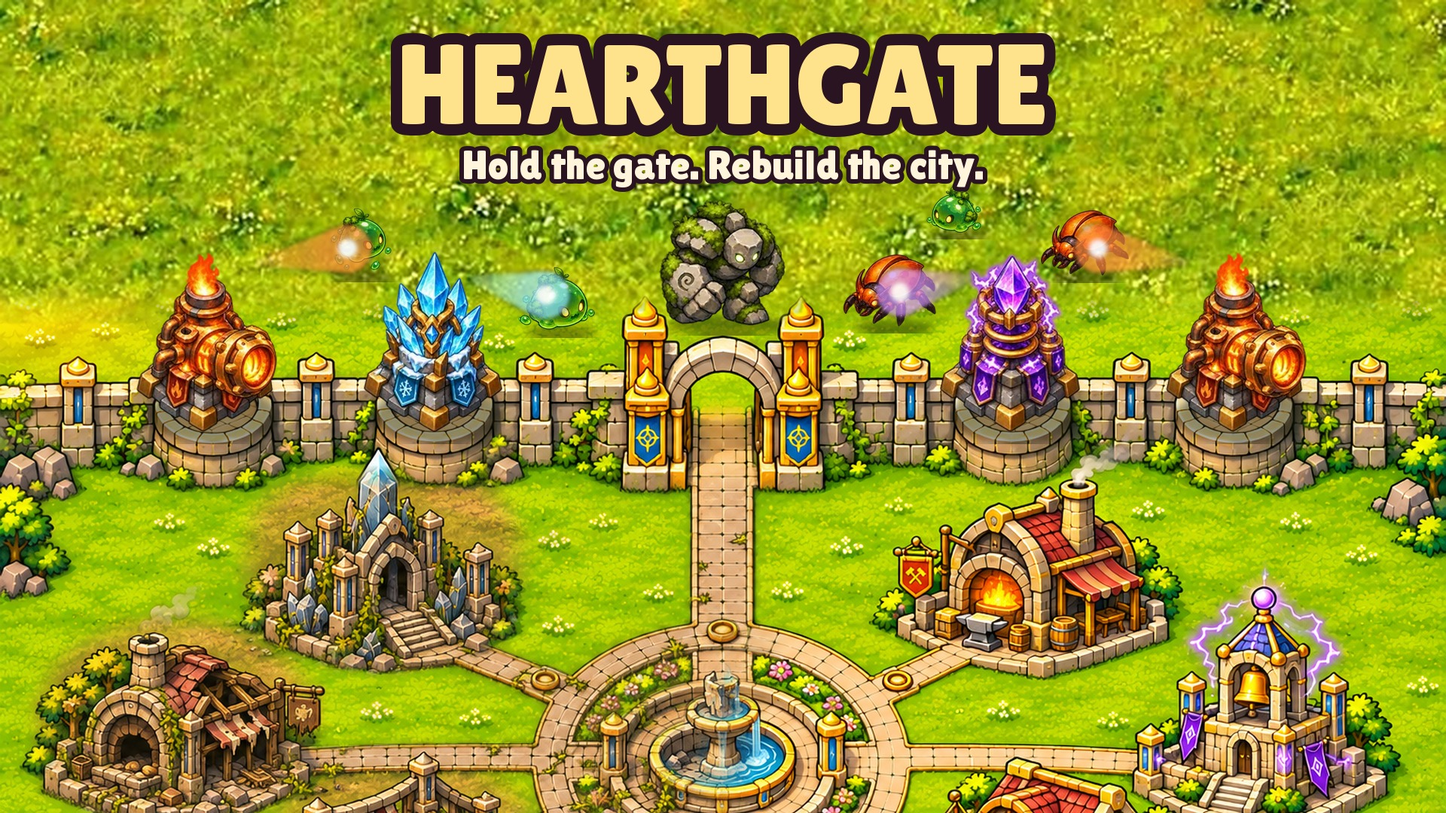
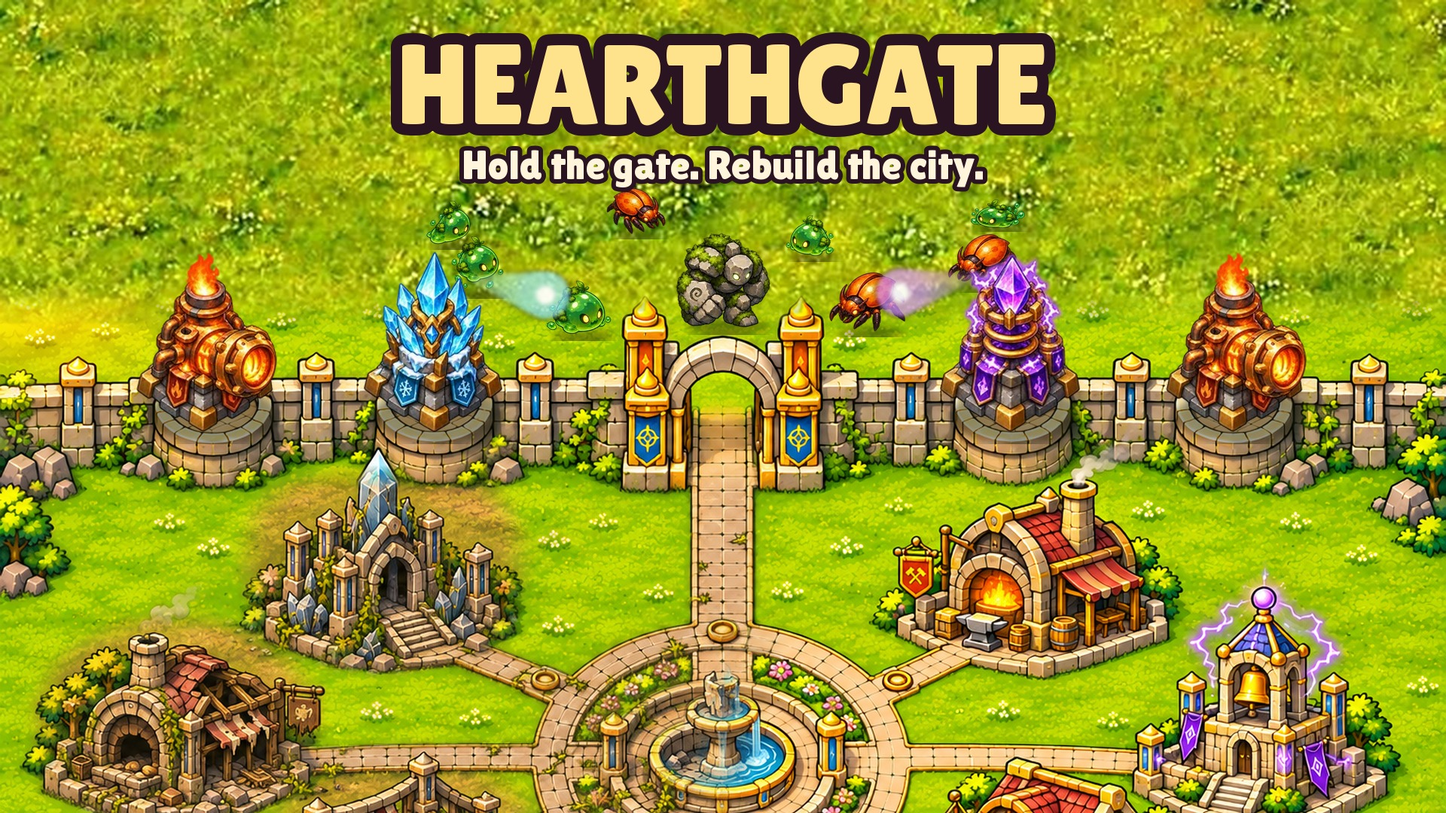
Review fixes: thick enemy outlines that survive the downscale, coloured bolts with normal blending, enemies arrive in packs, SHATTER flash, combo words clear of numbers, offline card shows fight and city, grow tip times out, cover A at true scale
Claude-Session: https://claude.ai/code/session_01Cxj9v4aohDoaRKkso7KUri

Changed region(s): [[0.1875, 0.2139, 0.8125, 0.4278]]

diff --git a/js/game.js b/js/game.js
@@ -61,7 +61,8 @@
   function spawn(role) {
     const R = C.ROLES[role], hp = C.enemyHp(P.wave, role);
     // enemies step out of the long grass below the HUD with a puff of dust, never from under the top panel
-    const x0 = 80 + Math.random() * 560, y0 = FIELD_TOP + (R.size > 150 ? 70 : 0) + Math.random() * 40;
+    const lead = (S.packN || 0) % 3 === 0 || role === 'boss' || role === 'swarm';
+    const x0 = lead ? (S.packX = 80 + Math.random() * 560) : Math.max(70, Math.min(650, S.packX + (Math.random() - 0.5) * 140)), y0 = FIELD_TOP + (R.size > 150 ? 70 : 0) + Math.random() * 40;
     for (let i = 0; i < (reduced() ? 3 : 9); i++) { const a = Math.random() * Math.PI * 2; S.fx.push({ x: x0 + Math.cos(a) * 20, y: y0 - 6, vx: Math.cos(a) * 50, vy: -20 - Math.random() * 30, t: 0, life: 0.5, col: 'rgba(220,200,150,.9)', r: 4 + Math.random() * 4, dust: true }); }
     S.enemies.push({ role, sheet: R.sheet, x: x0, y: y0, off: (Math.random() - 0.5) * 330, hp, max: hp,
       sp: R.speed * (WALL_FRONT - FIELD_TOP) / 414, size: R.size, armour: R.armour || 0, weak: R.weak, boss: role === 'boss', frame: Math.random() * 6,
@@ -71,10 +72,11 @@
   // ---------- simulation ----------
   const TOWERS = PLATFORMS.map((p, i) => ({ x: p.x, y: p.y, cd: 0.2 + i * 0.13, recoil: 0, flash: 0, n: i }));
   function step() {
-    S.t += DT; S.sessionT += DT; if (S.wavePop) S.wavePop.t += DT;
+    S.t += DT; S.sessionT += DT; if (S.growTip) S.growTipT += DT; if (S.flash && (S.flash.t += DT) > 0.18) S.flash = null; if (S.wavePop) S.wavePop.t += DT;
     S.gateHit = Math.max(0, S.gateHit - DT * 4); S.shake = Math.max(0, S.shake - DT);
     for (const r of S.rings) r.t += DT; S.rings = S.rings.filter(r => r.t < 0.5);
-    if (S.spawnQ.length && (S.spawnT -= DT) <= 0) { const r = S.spawnQ.shift(); spawn(r); S.spawnT = r === 'swarm' ? 0.28 : Math.max(0.45, 1.35 - P.wave * 0.02); }
+    if (S.spawnQ.length && (S.spawnT -= DT) <= 0) { const r = S.spawnQ.shift(); spawn(r); S.packN = (S.packN || 0) + 1; const gap = Math.max(0.45, 1.35 - P.wave * 0.02);
+      S.spawnT = r === 'swarm' ? 0.28 : S.packN % 3 ? 0.3 : gap * 3 - 0.6; }   // packs of three, same total pace
     if (B.regen) S.gateHp = Math.min(gateMax(), S.gateHp + gateMax() * B.regen * DT);
     const els = elements(), interval = C.fireInterval(B);
     for (const t of TOWERS) {
@@ -156,14 +158,16 @@
   }
   function combo(id, e, word, col) {
     // one combo word on screen at a time, so words never pile into each other
+    // above the enemy, or below it near the treeline, so it never sits on the +N
     S.pops = S.pops.filter(p => !p.combo);
-    S.pops.push({ x: Math.max(150, Math.min(570, e.x)), y: Math.max(S.wavePop ? 500 : FIELD_TOP + 50, e.y - e.size - 40), text: word, col, t: 0, life: 1.4, size: 58, combo: true, hold: 0.75 });
+    S.pops.push({ x: Math.max(150, Math.min(570, e.x)), y: (e.y - e.size - 80 < (S.wavePop ? 500 : FIELD_TOP + 50)) ? Math.max(e.y + 70, S.wavePop ? 500 : 0) : e.y - e.size - 80, text: word, col, t: 0, life: 1.4, size: 58, combo: true, hold: 0.75 });
     S.rings.push({ x: e.x, y: e.y - e.size * 0.45, t: 0, col }); S.shake = 0.14;
+    if (id === 'shatter' && S.t - (S.lastFlash || -9) > 1.2) { S.flash = { col, t: 0 }; S.lastFlash = S.t; }   // the signature combo lights the screen
     if (!P.combos.includes(id)) { P.combos.push(id); toast(`New combo: ${word.replace('!', '')}  ·  ${P.combos.length}/3`); save(); }
   }
   function kill(e) {
     e.dying = DT; const gain = C.killRes(P.wave, e.boss, B);
-    wisp(e, gain); pop(e.x, e.y - e.size * 0.6, '+' + C.fmt(gain), '#ffb8f0', 0.9, 32);
+    wisp(e, gain); pop(e.x, e.y - e.size * 0.6, '+' + C.fmt(gain), '#ff9ce8', 0.9, 34);
     burst(e, e.sheet === 'golem' ? '#b9b2a2' : e.sheet === 'beetle' ? '#ff9a4a' : '#8fe05a', e.boss ? 30 : 12, e.boss ? 260 : 160);
     if (e.boss || e.role === 'armoured') A.play('golem_death', 0.5);
   }
@@ -208,7 +212,7 @@
     const before = C.towerDamage(P, B), stage = C.stageOf(P.gateLevel);
     P.res -= c; P.gateLevel++; refresh(); S.gateHp = gateMax(); S.upsSinceRestore = (S.upsSinceRestore || 0) + 1;
     if (C.stageOf(P.gateLevel) > stage) { toast(`Gate stage ${C.stageOf(P.gateLevel)}! The towers grow.`); A.play('tier_up', 0.6); TOWERS.forEach(t => (t.flash = 1.5)); }
-    else { pop(GATE_X, WALL_FRONT - 150, `Damage ${C.fmt(before)} -> ${C.fmt(C.towerDamage(P, B))}`, '#ffd56b', 1.2, 38); TOWERS.forEach(t => (t.flash = 1.2)); A.play('tier_up', 0.25); }
+    else { pop(GATE_X, WALL_FRONT - 240, `Damage ${C.fmt(before)} -> ${C.fmt(C.towerDamage(P, B))}`, '#ffd56b', 1.2, 38); TOWERS.forEach(t => (t.flash = 1.2)); A.play('tier_up', 0.25); }
     save(); ui();
   }
   function restore() {
@@ -259,7 +263,7 @@
     const btn = (id, label, cls = '') => `<button id="${id}" class="cbtn ${cls}">${label}</button>`;
     let html = '';
     if (kind === 'daily') html = `<span class="eyebrow">Day ${data.day} reward</span><h2>+${C.fmt(data.amount)} Resonance</h2><p>${data.big ? 'Day 7 bonus: five times the reward!' : 'Day 7 pays five times as much.'}</p>${btn('c-ok', 'Claim')}`;
-    if (kind === 'offline') html = `<span class="eyebrow">While you were away</span><h2>+${C.fmt(data.res)} Resonance</h2><p>The gate held and the city hummed for ${hours(data.secs)}${data.secs >= C.OFFLINE_CAP_H * 3600 - 1 ? ', the most it stores' : ''}.</p>${SDK.rewardsOn ? btn('c-ad', 'Watch an ad: double it', 'gold') : ''}${btn('c-ok', 'Collect')}`;
+    if (kind === 'offline') html = `<span class="eyebrow">While you were away</span><h2>+${C.fmt(data.res)} Resonance</h2><p>The gate held and the city hummed for ${hours(data.secs)}${data.secs >= C.OFFLINE_CAP_H * 3600 - 1 ? ', the most it stores' : ''}.</p><p class="small">From the fight ${C.fmt(data.fight)} · from the city ${C.fmt(data.city)}</p>${SDK.rewardsOn ? btn('c-ad', 'Watch an ad: double it', 'gold') : ''}${btn('c-ok', 'Collect')}`;
     if (kind === 'pick') html = `<span class="eyebrow">Restore · ${C.fmt(C.restoreCost(P.restored.length))} Resonance</span><h2>Pick a building</h2><div class="pick">${data.map(id => { const b = C.byId(id); return `<button class="opt" data-id="${id}"><b>${b.name}</b><span>${b.line}</span></button>`; }).join('')}</div>${btn('c-no', 'Not yet', 'quiet')}`;
     if (kind === 'fork') html = `<span class="eyebrow">Gate stage ${data}</span><h2>Choose a path</h2><div class="pick">${C.FORKS[data].map(f => `<button class="opt" data-id="${f.id}"><b>${f.name}</b><span>${f.line}</span></button>`).join('')}</div>`;
     if (kind === 'ascend') html = `<span class="eyebrow">The city is whole</span><h2>Ascend?</h2><p>The city returns to ruins and the waves start again, but Resonance and damage are <b>x${C.ASCEND_MULT}</b> for good${P.ascensions ? ` (now x${C.fmt(Math.pow(C.ASCEND_MULT, P.ascensions))})` : ''}. Best wave and combos stay.</p>${btn('c-ok', 'Ascend', 'gold')}${btn('c-no', 'Not yet', 'quiet')}`;
@@ -342,7 +346,12 @@
   function outline() {
     for (const n of ['slime', 'beetle', 'golem']) { const im = img[n]; if (!im) continue;
       const c = document.createElement('canvas'); c.width = im.width; c.height = im.height; const g = c.getContext('2d');
-      g.filter = 'drop-shadow(0 0 1.5px rgba(34,14,24,1)) drop-shadow(0 0 1px rgba(34,14,24,1))'; g.drawImage(im, 0, 0); img[n] = c; }
+      // a solid dark rim about 2.5 px wide at play size (5 sheet px): enemies are drawn at about 0.45 of the sheet,
+      // so a hairline here would vanish (fresh-eyes review, Nov 5 2026: the grey golem disappeared on the grass)
+      const sil = document.createElement('canvas'); sil.width = im.width; sil.height = im.height; const sg = sil.getContext('2d');
+      sg.drawImage(im, 0, 0); sg.globalCompositeOperation = 'source-in'; sg.fillStyle = 'rgb(34,14,24)'; sg.fillRect(0, 0, im.width, im.height);
+      for (let a = 0; a < 16; a++) for (const r of [2.5, 5]) g.drawImage(sil, Math.cos(a * Math.PI / 8) * r, Math.sin(a * Math.PI / 8) * r);
+      g.drawImage(im, 0, 0); img[n] = c; }
   }
   // Draw a sprite from its own sheet, anchored bottom-centre on (x, baseY); pad = the sheet's clear margin.
   function sprite(im, x, baseY, h, frame = 0, frames = 1) {
@@ -401,10 +410,10 @@
 
   function drawShot(s) {
     const col = COLOR[s.el];
-    cx.save(); cx.globalCompositeOperation = 'lighter';
-    s.trail.forEach(([x, y], i) => { cx.globalAlpha = (i + 1) / s.trail.length * 0.5; cx.fillStyle = col; cx.beginPath(); cx.arc(x, y, 3 + i * 0.7, 0, 7); cx.fill(); });
-    cx.globalAlpha = 1; glow(s.x, s.y, 16, GLOW[s.el], 0.7);
-    cx.fillStyle = '#fff'; cx.beginPath(); cx.arc(s.x, s.y, 4.5, 0, 7); cx.fill();
+    cx.save();   // normal blending: added light turns every colour yellow-white on the bright meadow
+    s.trail.forEach(([x, y], i) => { cx.globalAlpha = (i + 1) / s.trail.length * 0.75; cx.fillStyle = col; cx.beginPath(); cx.arc(x, y, 3 + i * 0.8, 0, 7); cx.fill(); });
+    cx.globalAlpha = 1; glow(s.x, s.y, 18, GLOW[s.el], 0.8);
+    cx.fillStyle = '#fff'; cx.strokeStyle = 'rgba(42,26,34,.8)'; cx.lineWidth = 2; cx.beginPath(); cx.arc(s.x, s.y, 5, 0, 7); cx.fill(); cx.stroke();
     cx.restore();
   }
 
@@ -512,6 +521,7 @@
       cx.globalAlpha = 1;
     }
     for (const r of S.rings) { cx.save(); cx.globalAlpha = 1 - r.t / 0.5; cx.strokeStyle = r.col; cx.lineWidth = 8 * (1 - r.t / 0.5) + 2; cx.beginPath(); cx.arc(r.x, r.y, 20 + r.t * 260, 0, 7); cx.stroke(); cx.restore(); }
+    if (S.flash && !reduced()) { cx.save(); cx.globalAlpha = 0.16 * (1 - S.flash.t / 0.18); cx.fillStyle = S.flash.col; cx.fillRect(0, 0, W, H); cx.restore(); }
     if (!S.card) drawWavePop();   // one voice at a time: nothing banners behind a card
     if (S.reveal && (S.reveal.t += 1 / 60) > 1.4) S.reveal = null;
   }
@@ -554,7 +564,7 @@
     let spot = null;
     if (!target && !P.firstSession && !P.grown && !S.card && P.restored.length >= C.FIXED_ORDER && (toastT <= 0 || S.growTip)) {
       const id = P.restored.find(b => P.res >= C.levelCost(P, b, B));
-      if (id) { spot = CITY.spots[id]; target = 'bld'; if (!S.growTip) { S.growTip = true; toast('Tap a building to grow its Resonance'); } }
+      if (id && (S.growTipT || 0) < 20) { spot = CITY.spots[id]; target = 'bld'; if (!S.growTip) { S.growTip = true; S.growTipT = 0; toast('Tap a building to grow its Resonance'); } }
     }
     const hand = el('hand'); hand.className = target ? 'on ' + target : '';
     hand.style.left = spot ? (sx(spot[0]) - 48) + 'px' : ''; hand.style.top = spot ? (sy(spot[1]) + 6) + 'px' : '';   // finger up, from under the building

diff --git a/js/core.js b/js/core.js
@@ -137,9 +137,11 @@
   // While the player is away the gate keeps fighting and the city keeps humming; the Granary adds to both.
   const offlineRate = (p, b) => (fightRate(p, b) + cityRate(p, b)) * (1 + b.offline);
   function offlineEarnings(p, b, now) {
-    if (!p.lastSeen || now <= p.lastSeen) return { secs: 0, res: 0 };
+    if (!p.lastSeen || now <= p.lastSeen) return { secs: 0, res: 0, fight: 0, city: 0 };
     const secs = Math.min(OFFLINE_CAP_H * 3600, (now - p.lastSeen) / 1000);
-    return secs < 60 ? { secs, res: 0 } : { secs, res: Math.floor(secs * offlineRate(p, b)) };
+    if (secs < 60) return { secs, res: 0, fight: 0, city: 0 };
+    const fight = Math.floor(secs * fightRate(p, b) * (1 + b.offline)), city = Math.floor(secs * cityRate(p, b) * (1 + b.offline));
+    return { secs, res: fight + city, fight, city };
   }
   // Daily reward: one tap on the first screen of the day; a missed day pauses the streak (never resets it);
   // day 7 of each week pays 5x. Days use the player's local midnight; a clock moved back never pays twice.

diff --git a/tools/covers.py b/tools/covers.py
@@ -42,8 +42,10 @@ def scene(W, H, city_scale, meadow_h, split_x):
     wall = meadow_h + 70 * s          # just in front of the wall, where the crowd presses
     # every enemy stands in open grass between the towers, clear of the gatehouse and of each other
     # every enemy stands in open grass between the subtitle and the wall, between the towers, clear of each other
-    FOES = [('golem', 0.50, -22, 176, 1), ('slime', 0.385, -18, 108, 0), ('beetle', 0.615, -24, 102, 2),
-            ('slime', 0.25, -92, 94, 3), ('beetle', 0.75, -92, 94, 4), ('slime', 0.66, -150, 82, 5)]
+    # at the game's own scale: every enemy shorter than a tower (owner's correction, Nov 5 2026), so a crowd, not giants
+    FOES = [('golem', 0.50, -22, 132, 1), ('slime', 0.40, -14, 92, 0), ('beetle', 0.60, -20, 84, 2), ('slime', 0.33, -70, 80, 3),
+            ('beetle', 0.68, -78, 76, 4), ('slime', 0.56, -120, 72, 5), ('slime', 0.31, -135, 70, 2), ('beetle', 0.44, -150, 66, 1),
+            ('slime', 0.69, -160, 68, 4)]
     for kind, x, dy, h, frame in FOES:
         sheet = Image.open(A('assets', 'enemies', f'{kind}-walk.webp')).convert('RGBA'); fw = sheet.width // 6
         fr = sheet.crop((frame * fw, 0, (frame + 1) * fw, sheet.height)); k = h * u / (fr.height - 16)
@@ -66,7 +68,8 @@ def scene(W, H, city_scale, meadow_h, split_x):
     # glowing bolts from the towers toward the enemies, and the SHATTER burst on the golem
     glow = Image.new('RGBA', (W, H), (0, 0, 0, 0)); g = ImageDraw.Draw(glow)
     col = {'fire': (255, 140, 60), 'frost': (150, 230, 255), 'storm': (210, 150, 255)}
-    for (px, py), el, (tx, dty) in zip(PLAT, ['fire', 'frost', 'storm', 'fire'], [(0.25, -140), (0.385, -72), (0.615, -76), (0.75, -140)]):
+    # only the two inner towers fire: the outer towers fall outside the portrait and square crops, and a bolt cut by the edge reads as a defect
+    for (px, py), el, (tx, dty) in list(zip(PLAT, ['fire', 'frost', 'storm', 'fire'], [(0.31, -150), (0.385, -72), (0.615, -76), (0.69, -170)]))[1:3]:
         x0, y0 = ox + px * s, meadow_h + py * s - 150 * s
         x1, y1 = W * tx, wall + dty * u
         for i in range(9):
